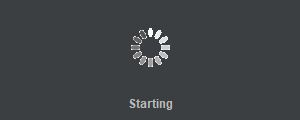
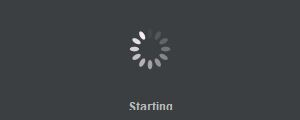
Fixes #5

Changed region(s): [[0.42, 0.225, 0.57, 0.575], [0.42, 0.825, 0.6, 0.925]]

diff --git a/src/main/java/de/milchreis/uibooster/UiBooster.java b/src/main/java/de/milchreis/uibooster/UiBooster.java
@@ -6,7 +6,6 @@ import de.milchreis.uibooster.model.LoginCredentials;
 import de.milchreis.uibooster.model.UiBoosterOptions;
 
 import javax.swing.*;
-
 import java.awt.*;
 import java.io.File;
 import java.util.Arrays;
@@ -21,18 +20,22 @@ import static de.milchreis.uibooster.utils.ParameterValidator.nonNull;
  */
 public class UiBooster {
 
+    private UiBoosterOptions options;
+
     public UiBooster() {
         this(new UiBoosterOptions(UiBoosterOptions.Theme.DARK_THEME));
     }
 
     public UiBooster(UiBoosterOptions options) {
-        if(options == null)
+        this.options = options;
+
+        if (options == null)
             return;
 
         if (options.getTheme() != null) {
 
             try {
-                if(options.getTheme() == UiBoosterOptions.Theme.DARK_THEME) {
+                if (options.getTheme() == UiBoosterOptions.Theme.DARK_THEME) {
                     UIManager.setLookAndFeel(new DarculaLaf());
 
                 } else if(options.getTheme() == UiBoosterOptions.Theme.OS_NATIVE) {
@@ -199,7 +202,7 @@ public class UiBooster {
      * @return returns the dialog object to change the message and hide the dialog as needed.
      */
     public WaitingDialog showWaitingDialog(String message, String title) {
-        return WaitingDialog.showDialog(message, title);
+        return WaitingDialog.showDialog(message, title, options);
     }
 
     /**
@@ -212,7 +215,7 @@ public class UiBooster {
      * @return returns the dialog object to change the message and hide the dialog as needed.
      */
     public WaitingDialog showWaitingDialog(String message, String title, String largeText) {
-        return WaitingDialog.showDialog(message, title, largeText);
+        return WaitingDialog.showDialog(message, title, largeText, options);
     }
 
     /**

diff --git a/src/main/java/de/milchreis/uibooster/components/WaitingDialog.java b/src/main/java/de/milchreis/uibooster/components/WaitingDialog.java
@@ -1,8 +1,12 @@
 package de.milchreis.uibooster.components;
 
+import de.milchreis.uibooster.model.UiBoosterOptions;
+
 import javax.swing.*;
 import javax.swing.border.EmptyBorder;
 import java.awt.*;
+
+import static de.milchreis.uibooster.model.UiBoosterOptions.Theme.DARK_THEME;
 
 public class WaitingDialog {
 
@@ -42,13 +46,16 @@ public class WaitingDialog {
         this.dialog.dispose();
     }
 
-    public static WaitingDialog showDialog(String message, String title) {
-        return showDialog(message, title, null);
+    public static WaitingDialog showDialog(String message, String title, UiBoosterOptions options) {
+        return showDialog(message, title, null, options);
     }
 
-    public static WaitingDialog showDialog(String message, String title, String largeMessage) {
+    public static WaitingDialog showDialog(String message, String title, String largeMessage, UiBoosterOptions options) {
 
-        JLabel loading = new JLabel(new ImageIcon(WaitingDialog.class.getResource("/loading-75.gif")));
+        String loadingImage = options != null && options.getTheme() == DARK_THEME ?
+                "/loading-75_darcular.gif" : "/loading-75.gif";
+
+        JLabel loading = new JLabel(new ImageIcon(WaitingDialog.class.getResource(loadingImage)));
 
         JFrame window = new JFrame();
         window.setTitle(title);
